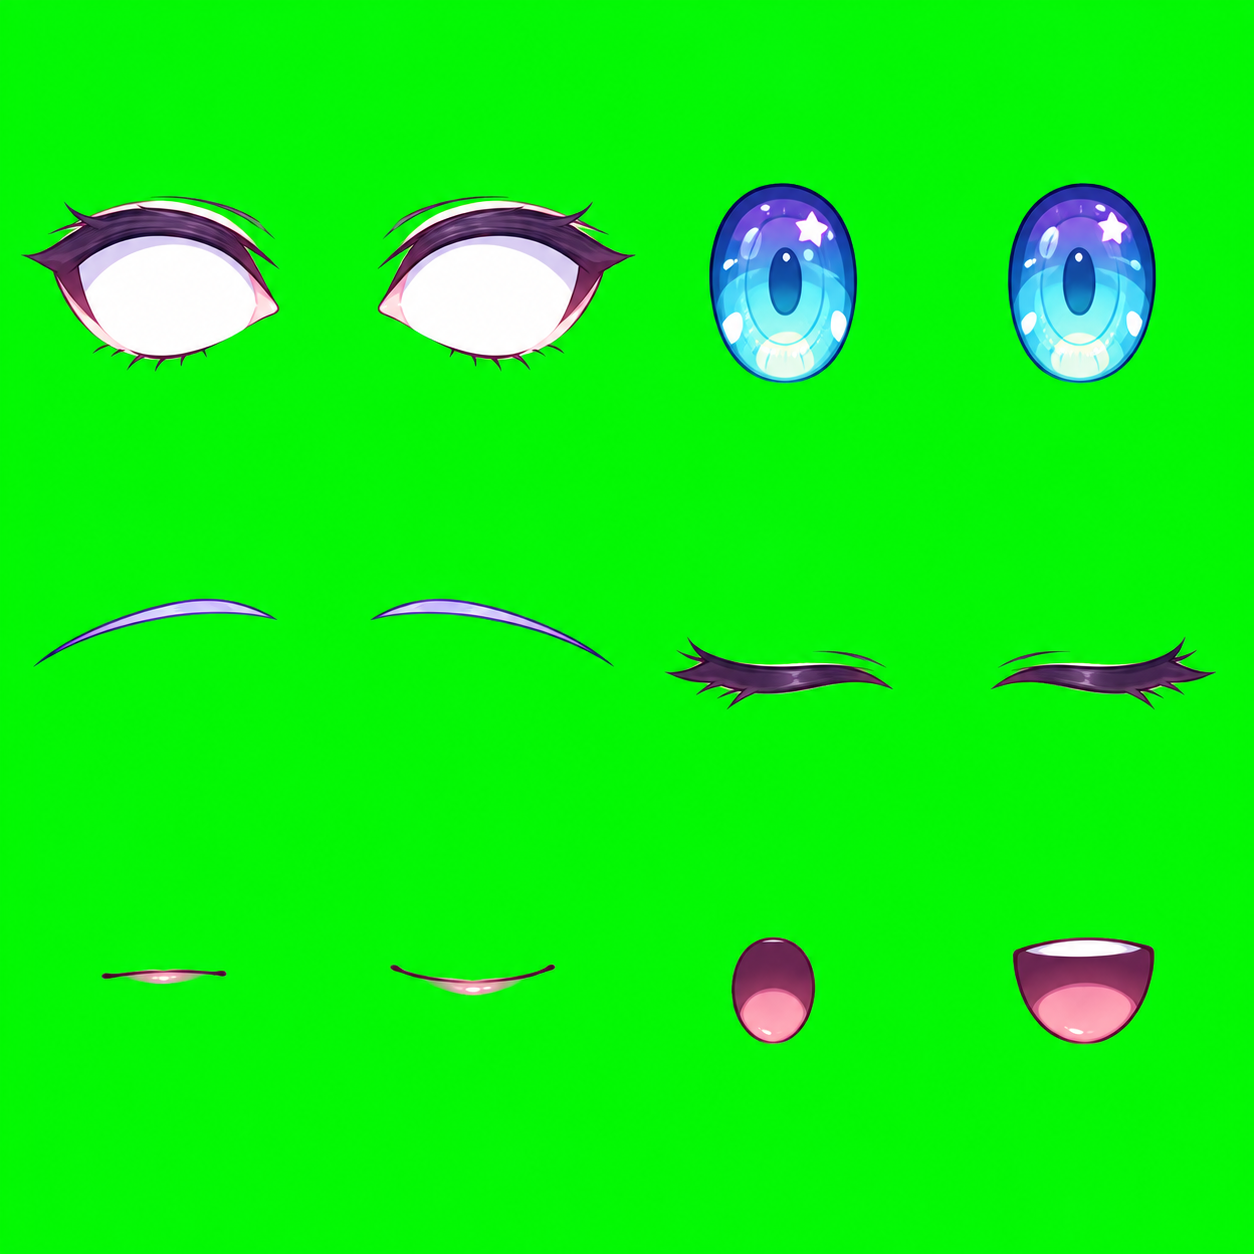
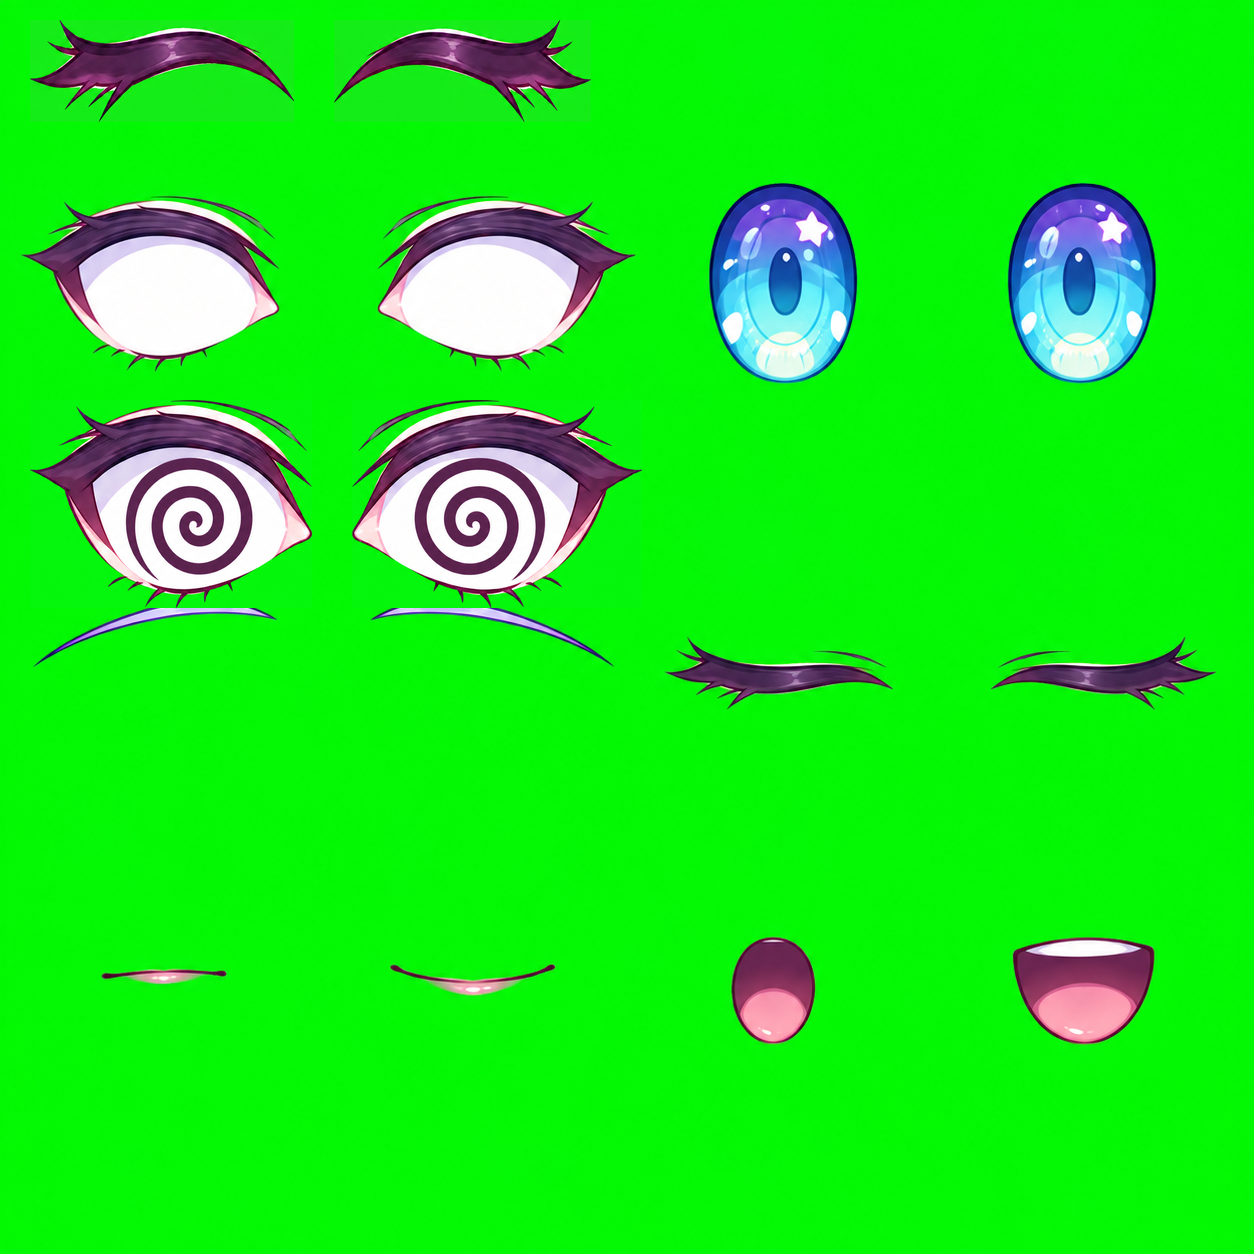
掌心朝外的手，以及可切換的表情眼睛
揮起來終於是掌心正對鏡頭、五指張開的手。先前幾版揮的都是手背，
那是這條線最初要解決的問題。

旋轉變不出掌心，所以走 Live2D 的差分切換：袖子換成拿掉手的版本
（sleeve-left-v9.png），手獨立成 hand-side 與 hand-open 兩個部件放在
同一個 leftHand slot，armFold 過 0.55 換手，任何時刻只有一隻手。手畫
在袖子底下，腕端延長一段藏進袖口，看起來是從袖子裡伸出來的。切換點
落在 t=0.40 與 t=2.47，都是手臂還在途中的低角度。硬切沒有淡入。

表情多了畫出來的笑眼與螺旋眼，摳進 face-features 的空白區，happy 與
error 自動套用。新增 eye-art 型別，讓整顆眼睛的替身不再被眨眼的開合
壓縮。

新增 tools/check-expression.mjs：逐幀量每個表情跟平常臉的差距。會動
的東西不能用時間平均去量，零均值的抖動平均之後互相抵消——error 每幀
被呼叫端隨機抖動，逐幀最強 62.6、時間平均 43.2，平均低估 31%，而靜態
的三個只低估 5% 到 13%。通則寫進 README。

check-wave 認得手已經是獨立部件，喉嚨那條也收窄到頸部縱列，否則舉起
的手經過時會被算成喉嚨。對齊工具加了舉手開關，因為掌心是照舉手姿勢
畫的，在垂手狀態下是倒著的沒辦法調。

diff --git a/engine/alignment.js b/engine/alignment.js
@@ -171,21 +171,9 @@ export class Alignment {
       // The node hierarchy is the model's skeleton, not the user's placement,
       // so a setting saved before a joint existed still loads.
       if (this.original.nodes) imported.nodes = structuredClone(this.original.nodes);
-      // And so does every other field describing how a part behaves. Listing
-      // the model's fields one by one meant each new rig feature rejected every
-      // old setting, so the rule is inverted: the setting keeps what it owns
-      // and the model supplies the rest. What it owns is its adjustment plus
-      // the geometry that adjustment is measured against, which is left alone
-      // so a setting belonging to a different model is still rejected.
-      for (const current of this.original.parts) {
-        const part = imported.parts.find(p => p.id === current.id);
-        if (!part) continue;
-        for (const key of new Set([...Object.keys(current), ...Object.keys(part)])) {
-          if (OWNED_BY_SETTING.has(key)) continue;
-          if (current[key] === undefined) delete part[key];
-          else part[key] = structuredClone(current[key]);
-        }
-      }
+      // Parts the model has dropped go with it.
+      const live = new Set(this.original.parts.map(p => p.id));
+      imported.parts = imported.parts.filter(p => live.has(p.id));
       const groups = [
         { texture: 'sleeveLeft', parts: ['arm-left'], nodes: ['arm-left'] },
         { texture: 'sleeveRight', parts: ['arm-right'], nodes: ['arm-right'] },
@@ -214,9 +202,47 @@ export class Alignment {
       // Art fixes outside those groups (masks, chroma) also belong to the model.
       for (const [id, spec] of Object.entries(this.original.textures || {})) {
         if (!imported.textures || JSON.stringify(imported.textures[id]) === JSON.stringify(spec)) continue;
+        // A texture the model has added is not a correction to the user's work,
+        // so it arrives quietly rather than being reported back as recalibrated.
+        const known = imported.textures[id] !== undefined;
         imported.textures[id] = structuredClone(spec);
-        if (!recalibrated.includes(id)) recalibrated.push(id);
+        if (known && !recalibrated.includes(id)) recalibrated.push(id);
       }
+      for (const id of Object.keys(imported.textures || {})) {
+        if (!this.original.textures?.[id]) delete imported.textures[id];
+      }
+      // And so does every other field describing how a part behaves. Listing
+      // the model's fields one by one meant each new rig feature rejected every
+      // old setting, so the rule is inverted: the setting keeps what it owns
+      // and the model supplies the rest. What it owns is its adjustment plus
+      // the geometry that adjustment is measured against, which is left alone
+      // so a setting belonging to a different model is still rejected.
+      // A saved setting owns its adjustment and the geometry that adjustment is
+      // measured against. If that geometry disagrees for a part both sides
+      // know, and the art-replacement groups above did not explain it, the
+      // setting belongs to a different model and is refused.
+      for (const current of this.original.parts) {
+        const before = imported.parts.find(p => p.id === current.id);
+        if (!before || replaced.includes(current.id)) continue;
+        for (const key of OWNED_BY_SETTING) {
+          if (key === 'adjustment') continue;
+          if (JSON.stringify(before[key]) !== JSON.stringify(current[key])) {
+            throw new Error('這份設定的底模不同，請載入本工具匯出的設定。');
+          }
+        }
+      }
+      // Rebuild the part list in the model's own order, keeping each saved
+      // placement where the part still exists. Parts the model has added come
+      // in with its placement, parts it has dropped go with it, and restore()
+      // can line the adjustments up by index again.
+      const saved = new Map(imported.parts.map(p => [p.id, p]));
+      imported.parts = this.original.parts.map(current => {
+        const part = structuredClone(current);
+        const before = saved.get(current.id);
+        if (before && before.adjustment !== undefined) part.adjustment = before.adjustment;
+        else delete part.adjustment;
+        return part;
+      });
       if (stripped(imported) !== stripped(this.original)) throw new Error('這份設定的底模不同，請載入本工具匯出的設定。');
     }
     for (const p of imported.parts) if (p.adjustment !== undefined) {

diff --git a/engine/motion.js b/engine/motion.js
@@ -37,6 +37,10 @@ export const EMOTES = Object.freeze({
 });
 // Emotes the caller should render with its own glitch treatment.
 export const GLITCHED_EMOTES = Object.freeze(['error']);
+// Drawn eye art that replaces the whole eye for an emote. Parameters can
+// narrow an eye but cannot bend it into a smile or fill it with a spiral, so
+// these two swap in their own art through the eyes slot.
+export const EMOTE_EYES = Object.freeze({ happy: 'smile', error: 'spiral' });
 // A full reset, so switching emotes never carries the previous one's leftovers.
 export const NEUTRAL_POSE = Object.freeze({
   smile: 0, brow: 0, eyeOpen: 1, mouthWide: 0, mouthOpen: 0,
@@ -155,12 +159,23 @@ export class Motion {
     this.nextBlink = 2.5;
     this.blinkTime = -1;
     this.waveTime = -1;
+    this.slots = {};
     this.hair = new Spring();
   }
   setParameters(values) {
     for (const [id, value] of Object.entries(values)) {
       if (!Object.hasOwn(PARAMS, id) || !Number.isFinite(value)) continue;
       this.target[id] = clamp(value, PARAMS[id][0], PARAMS[id][1]);
+    }
+  }
+  /* Which variant is showing in each art slot. Unknown slots are ignored so a
+     caller cannot invent one, and 'default' clears a slot back to the base art. */
+  setSlots(values) {
+    const known = new Set(this.rigSlots || []);
+    for (const [slot, variant] of Object.entries(values)) {
+      if (known.size && !known.has(slot)) continue;
+      if (variant === 'default' || variant == null) delete this.slots[slot];
+      else this.slots[slot] = String(variant);
     }
   }
   setExpression(name) {
@@ -170,6 +185,7 @@ export class Motion {
   reset() {
     this.setParameters(Object.fromEntries(Object.entries(PARAMS).map(([id, spec]) => [id, spec[2]])));
     this.pointer = { x: 0, y: 0 };
+    this.slots = {};
     this.blinkTime = this.waveTime = -1;
   }
   blink() { this.blinkTime = 0; }
@@ -206,10 +222,17 @@ export class Motion {
       const speed = key === 'mouthOpen' ? (target[key] > this.values[key] ? 25 : 17) : 12;
       this.values[key] = lerp(this.values[key], clamp(target[key], PARAMS[key][0], PARAMS[key][1]), 1 - Math.exp(-speed * dt));
     }
+    // Which hand is on. The sleeve's own hand is cut out of its texture, so a
+    // hand part is always drawn and exactly one of them is visible. The side
+    // view is drawn hanging and the palm is drawn raised, so the swap happens
+    // once the forearm is up far enough for the palm to read as a greeting.
+    // Live2D swaps hands the same way rather than trying to turn one.
+    const HAND_SWAP = .55;
     // The bend drivers are already smooth in time; running them through the
     // spring would only damp the swing, so they go straight onto the pose.
-    const pose = { ...this.values, armRaise: 0, armFold: 0, handAngle: 0, lean: 0, tilt: 0 };
+    const pose = { ...this.values, armRaise: 0, armFold: 0, handAngle: 0, lean: 0, tilt: 0, slots: {} };
     if (wave) Object.assign(pose, { armRaise: wave.armRaise, armFold: wave.armFold, handAngle: wave.handAngle, lean: wave.lean, tilt: wave.tilt });
+    pose.slots = { ...this.slots, leftHand: pose.armFold > HAND_SWAP ? 'open' : 'default' };
     if (this.blinkTime >= 0) {
       this.blinkTime += dt;
       // Fast closure, a brief hold, then a slower reopening. Geometric aperture.

diff --git a/align/app.js b/align/app.js
@@ -22,6 +22,17 @@ async function start() {
   const hidden = new Set(editor.scene().filter(item => item.opacity < .05).map(item => item.part.id));
   // Keep dormant expression art at its full size, available through each visibility switch.
   editor.pose.mouthOpen = 1;
+  /* The raised pose. Hands that only appear mid-wave are drawn for that pose,
+     so placing them against a hanging arm means judging them upside down. */
+  let raised = false;
+  const setRaised = value => {
+    raised = value;
+    Object.assign(editor.pose, raised
+      ? { armRaise: 1, armFold: 1, handAngle: 0, slots: { leftHand: 'open' } }
+      : { armRaise: 0, armFold: 0, handAngle: 0, slots: {} });
+    $('raise').setAttribute('aria-pressed', String(raised));
+    refresh();
+  };
   const alpha = Object.fromEntries(Object.entries(textures).map(([id, img]) => {
     const c = makeCanvas(img.width, img.height), ctx = c.getContext('2d', { willReadFrequently: true });
     ctx.drawImage(img, 0, 0); return [id, { width: img.width, height: img.height, data: ctx.getImageData(0, 0, img.width, img.height).data }];
@@ -180,6 +191,7 @@ async function start() {
   }
   document.querySelectorAll('[data-mode]').forEach(b => b.addEventListener('click', () => setMode(b.dataset.mode)));
   document.querySelectorAll('[data-frame]').forEach(b => b.addEventListener('click', () => setFrame(b.dataset.frame)));
+  $('raise').addEventListener('click', () => setRaised(!raised));
   $('zoom').addEventListener('input', () => setZoom(Number($('zoom').value)));
   for (const id of ['guides','bones']) $(id).addEventListener('change', () => { state[id] = $(id).checked; schedule(); });
   for (const [id,fn] of [['smaller',()=>editor.scale(.98)],['larger',()=>editor.scale(1.02)],['rotate-left',()=>editor.rotate(-1)],['rotate-right',()=>editor.rotate(1)],['reset-part',()=>editor.reset()],['reset-all',()=>editor.reset(true)]]) $(id).addEventListener('click', () => change(fn));
@@ -277,6 +289,7 @@ async function start() {
     move:(x,y)=>change(()=>editor.move(x,y)), scale:factor=>change(()=>editor.scale(factor)), rotate:angle=>change(()=>editor.rotate(angle)),
     undo:()=>{editor.undo();refresh();},redo:()=>{editor.redo();refresh();},reset:()=>change(()=>editor.reset(true)),
     setMode,setFrame,setZoom,
+    setRaised:value=>{setRaised(Boolean(value));},
     setVisible:(id,value)=>{if(!editor.rig.parts.some(p=>p.id===id))throw new RangeError('Unknown part');if(value)hidden.delete(id);else hidden.add(id);refresh();},
     setBones:value=>{state.bones=Boolean(value);$('bones').checked=state.bones;schedule();},
     getInfo:()=>({renderer:renderer.kind,graphicsError:renderer.gl?.getError()||0,parts:editor.rig.parts.length,selection:editor.selection,changed:editor.changed,hidden:[...hidden],...state,reference:structuredClone(editor.rig.reference),bounds:editor.bounds(),canUndo:Boolean(editor.past.length),canRedo:Boolean(editor.future.length)}),

diff --git a/align/index.html b/align/index.html
@@ -14,7 +14,7 @@
     <section class="workspace" aria-label="正面比例對照工作區">
       <div class="toolbar">
         <div class="segmented" role="group" aria-label="對照模式"><button data-mode="reference" aria-pressed="false">原圖</button><button data-mode="overlay" aria-pressed="true">疊圖</button><button data-mode="model" aria-pressed="false">組裝</button></div>
-        <div class="view-buttons" role="group" aria-label="取景範圍"><button data-frame="full" aria-pressed="true">全身</button><button data-frame="head" aria-pressed="false">頭部</button><button data-frame="lower" aria-pressed="false">腰腿</button></div>
+        <div class="view-buttons" role="group" aria-label="取景範圍"><button data-frame="full" aria-pressed="true">全身</button><button data-frame="head" aria-pressed="false">頭部</button><button data-frame="lower" aria-pressed="false">腰腿</button><button id="raise" aria-pressed="false" title="把左臂擺成揮手最高點，調正面掌心用">舉手</button></div>
         <label class="zoom-label">放大 <input id="zoom" type="range" min="100" max="300" step="10" value="100"><output id="zoom-value" for="zoom">100%</output></label>
       </div>
       <div id="viewport" class="viewport">

diff --git a/engine/geometry.js b/engine/geometry.js
@@ -182,6 +182,9 @@ export function partOpacity(part, pose) {
   if (part.type === 'mouth') return clamp(pose.mouthOpen / .12, 0, 1);
   if (part.type === 'lip') return 1 - clamp(pose.mouthOpen / .12, 0, 1);
   if (part.type === 'closed-eye') return 1 - clamp(pose.eyeOpen / .16, 0, 1);
+  // A drawn replacement for the whole eye. Its own slot decides when it shows,
+  // so it must not also fade with the aperture the way the default parts do.
+  if (part.type === 'eye-art') return part.opacity ?? 1;
   if (part.type === 'eye' || part.type === 'iris' || part.type === 'lash') return clamp(pose.eyeOpen / .09, 0, 1);
   if (part.type === 'blush') return clamp(pose.smile, 0, 1) * .4;
   return part.opacity ?? 1;

diff --git a/README.md b/README.md
@@ -6,9 +6,15 @@
 
 ## 0.5.0：單手揮手改走關節，表情部件可切換
 
-### 這一版沒有做到的事
+### 掌心朝外的手做出來了
 
-揮起來的仍然是**側面的手** — 手背朝外、五指斜著。`pet-plain.webp` 那隻打招呼的手是**掌心正對鏡頭**，兩者是不同的觀看角度，旋轉變不出來，這是 Live2D 也用差分圖解決的那一類。下面所有的量測都在說骨架動得對不對，沒有一條在說它讀起來像不像打招呼。正面掌心的做法寫在 `NEXT.md`，是改角色素材，要先過目。
+揮起來是**掌心正對鏡頭、五指張開**的手。這是整條線最初要解決的問題，先前幾版揮的都是手背。
+
+旋轉變不出掌心，這是 Live2D 也用差分圖解決的那一類，所以走的是同一條路：袖子的貼圖換成拿掉手的版本，手獨立成兩個部件放在同一個 `leftHand` slot，`armFold` 過 0.55 時從側手掌換成正面掌心，任何時刻只有一隻手存在。手畫在袖子**底下**，腕端往下延長一段藏進袖口，所以看起來是從袖子裡伸出來的。
+
+切換點在 t=0.40（上去）與 t=2.47（下來），都落在手臂還在途中的低角度，那個角度本來就該是側手掌。硬切沒有淡入，跟 Live2D 的切換式一樣；逐格看得出來手在那一格變大變正，動起來是否察覺得到還沒有人判定過。
+
+素材是生成的，形狀對著 `pet-plain.webp` 的正典重繪，線色量過與袖子對齊（`151,79,78` 對 `129,86,94`）。位置、角度與大小由使用者在對齊工具裡調定。
 
 ### 揮手不再只是把整支袖子轉四度
 
@@ -100,6 +106,27 @@ body（樞紐在腳底）
 這些全部是「骨架有沒有動對」。**沒有一條在量「像不像打招呼」**，而那正是這件事最初要解決的問題。
 
 `npm run test:runtime` 另外在 WebGL 與 Canvas 兩條路徑上斷言揮手會到頂、會回到原位、前臂至少反向三次、肩在上去時領先肘、抵達時有過衝、該靜的部位全程是 0、身體有一段小弧。
+
+### 量靜態差異用平均，量動態幅度要逐幀
+
+會動的東西不能用時間平均去量。抖動、擺動、過衝這類訊號是零均值的，平均之後互相抵消，抖得越兇平均越說「什麼都沒發生」。正確的做法是逐幀各自比對，再取極值、反轉次數或行程。
+
+`tools/check-expression.mjs` 把這件事量出來了。它在出貨尺寸（220 像素高）下渲染每個表情 90 格，每一格各自跟平常臉相減：
+
+| 表情 | 逐幀最強 | 時間平均 | 平均低估 |
+| --- | --- | --- | --- |
+| happy | 15.3 | 13.2 | 13% |
+| thinking | 33.7 | 31.9 | 5% |
+| sleep | 33.5 | 31.2 | 7% |
+| **error** | **62.6** | **43.2** | **31%** |
+
+error 是唯一一個會逐幀抖動的表情（呼叫端每幀給頭部隨機位移），也是唯一一個被平均嚴重低估的。靜態的三個差距都在 13% 以內，那是待機呼吸造成的。
+
+同一支工具也量出畫上去的眼睛有多少幫助：happy 從 14.1 到 15.3、error 從 59.4 到 62.6。
+
+`tools/check-wave.mjs` 的六條檢查沒有這個問題，而且是結構性的沒有 — 每一條都是逐幀算完取極值（切邊取最大、可見度取最小、袖根破口取最大、脖子取最大、肩身偏移取絕對值最大），軀幹扭動那條更直接是逐幀差分數反轉次數，那正是平均會歸零的東西。
+
+還有一個殘留的侷限要記著：整個畫面相減時，數字會被「頭移動了多少」主導，轉頭的表情因此虛高、只改眼睛嘴巴的表情虛低。加上臉部視窗改善了，但沒有完全隔離。要真的只量五官，得先把頭的姿勢歸零再比。
 
 ### 肘部的像素裝飾會被拉糊，這個修不掉
 
@@ -352,6 +379,7 @@ npm run test:alignment
 - `npm run render`：用相同網格產生全身、近景、眨眼、表情、轉頭及手臂擺動等十二個狀態的透明 PNG，存入忽略提交的 `test-results/`，供檢查接縫與表情。
 - `npm run compare`：產生相同尺度的三欄疊圖，存入 `test-results/turnaround-alignment.png`。確認完成後，可用 `npm run compare -- --publish` 更新目前版本的公開對照圖。
 - `npm run test:runtime`：啟動臨時伺服器，驗證 Chromium 中的 WebGL 與 Canvas 程式介面、語音嘴型、播放停止及資源載入。首次使用若缺少 Chromium，執行 `npx playwright install chromium`。此檢查不截圖、不操作控制面板，也不代表完成手動外觀驗收。
+- `node tools/check-expression.mjs`：在出貨尺寸下逐幀量每個表情跟平常臉的差距，並列出時間平均以顯示平均法低估了多少。
 - `node tools/check-wave.mjs`：在渲染出來的像素上量揮手，回報手掌的可見比例、最高點與橫向行程，手掌被遮住超過四分之一或有東西被取景切掉就以非零結束。加 `--frames` 會另外把逐格 PNG 寫進 `test-results/wave/`。
 - `npm run test:alignment`：透過程式介面驗證小工具的載入、移動、旋轉、縮放、部件開關、骨架開關、取景、復原與設定往返；同時確認底圖位置保持固定。
 
